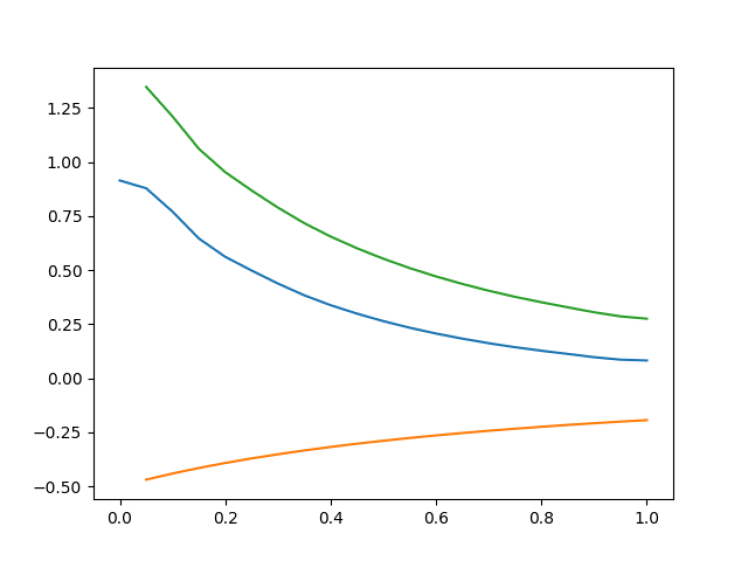
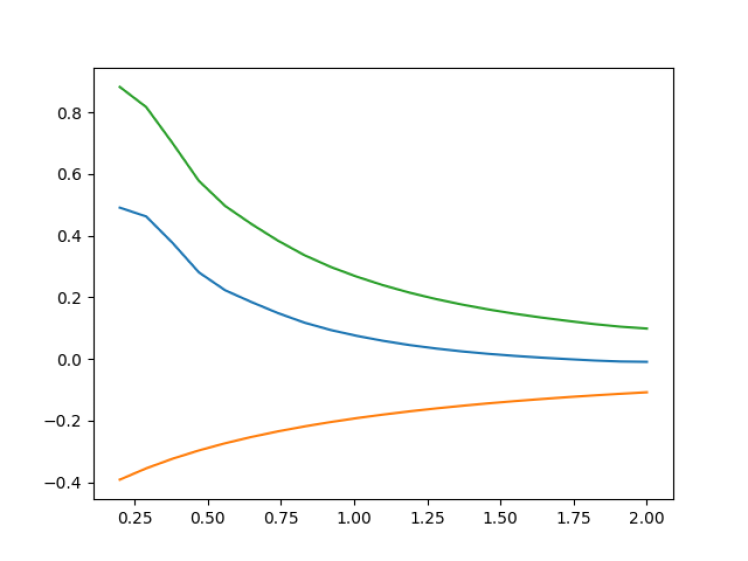
removed redefinition

diff --git a/ui/design.py b/ui/design.py
@@ -49,7 +49,7 @@ class Ui_MainWindow(object):
         self.ErrorRateTab = QtWidgets.QWidget()
         self.ErrorRateTab.setObjectName("ErrorRateTab")
         self.ErrorRateTable = QtWidgets.QTableWidget(self.ErrorRateTab)
-        self.ErrorRateTable.setGeometry(QtCore.QRect(10, 10, 851, 541))
+        self.ErrorRateTable.setGeometry(QtCore.QRect(0, 0, 871, 571))
         self.ErrorRateTable.setObjectName("ErrorRateTable")
         self.ErrorRateTable.setColumnCount(0)
         self.ErrorRateTable.setRowCount(0)
@@ -57,7 +57,7 @@ class Ui_MainWindow(object):
         self.GridValuesTab = QtWidgets.QWidget()
         self.GridValuesTab.setObjectName("GridValuesTab")
         self.GridValuesTable = QtWidgets.QTableWidget(self.GridValuesTab)
-        self.GridValuesTable.setGeometry(QtCore.QRect(30, 20, 831, 541))
+        self.GridValuesTable.setGeometry(QtCore.QRect(0, 0, 871, 571))
         self.GridValuesTable.setObjectName("GridValuesTable")
         self.GridValuesTable.setColumnCount(0)
         self.GridValuesTable.setRowCount(0)
@@ -150,7 +150,7 @@ class Ui_MainWindow(object):
         MainWindow.setStatusBar(self.statusbar)
 
         self.retranslateUi(MainWindow)
-        self.tabWidget.setCurrentIndex(1)
+        self.tabWidget.setCurrentIndex(0)
         QtCore.QMetaObject.connectSlotsByName(MainWindow)
 
     def retranslateUi(self, MainWindow):
@@ -170,11 +170,11 @@ class Ui_MainWindow(object):
         self.label_2.setText(_translate("MainWindow", "b = "))
         self.label_4.setText(_translate("MainWindow", "S\'\'(b) = "))
         self.bBoundBox.setText(_translate("MainWindow", "0"))
-        self.bBox.setText(_translate("MainWindow", "1"))
+        self.bBox.setText(_translate("MainWindow", "2"))
         self.label_3.setText(_translate("MainWindow", "S\'\'(a) = "))
         self.label_6.setText(_translate("MainWindow", "Число разбиений:"))
         self.label.setText(_translate("MainWindow", "a = "))
-        self.aBox.setText(_translate("MainWindow", "0"))
+        self.aBox.setText(_translate("MainWindow", "0.2"))
         self.nBox.setText(_translate("MainWindow", "10"))
         self.aBoundBox.setText(_translate("MainWindow", "0"))
         self.goButton.setText(_translate("MainWindow", "Аппроксимировать"))

diff --git a/method/method.py b/method/method.py
@@ -30,7 +30,7 @@ def dTask1Func2(x): #Производная второй функции
     return (np.sin(x) + 2 * x * np.cos(x)) / (2 * x ** 0.5)
 
 
-def d2Task1Func1(x): #Вторая производная второй функции
+def d2Task1Func2(x): #Вторая производная второй функции
     return (4 * x * np.cos(x) - 4 * x ** 2 * np.sin(x) - np.sin(x)) / (4 * x * x ** 0.5)
 
 

diff --git a/ui/ui.py b/ui/ui.py
@@ -62,10 +62,6 @@ class MainWindow(QtWidgets.QMainWindow, design.Ui_MainWindow):
         self.DerPlane.setPixmap(self.resizeImage("../planes/funcd.png", self.DerPlane))
         self.Der2Plane.setPixmap(self.resizeImage("../planes/func2d.png", self.Der2Plane))
 
-
-
-
-
     def setUnchecked(self, ignored):
         for i in range(len(self.elems)):
             if not self.elems[i] is ignored:
